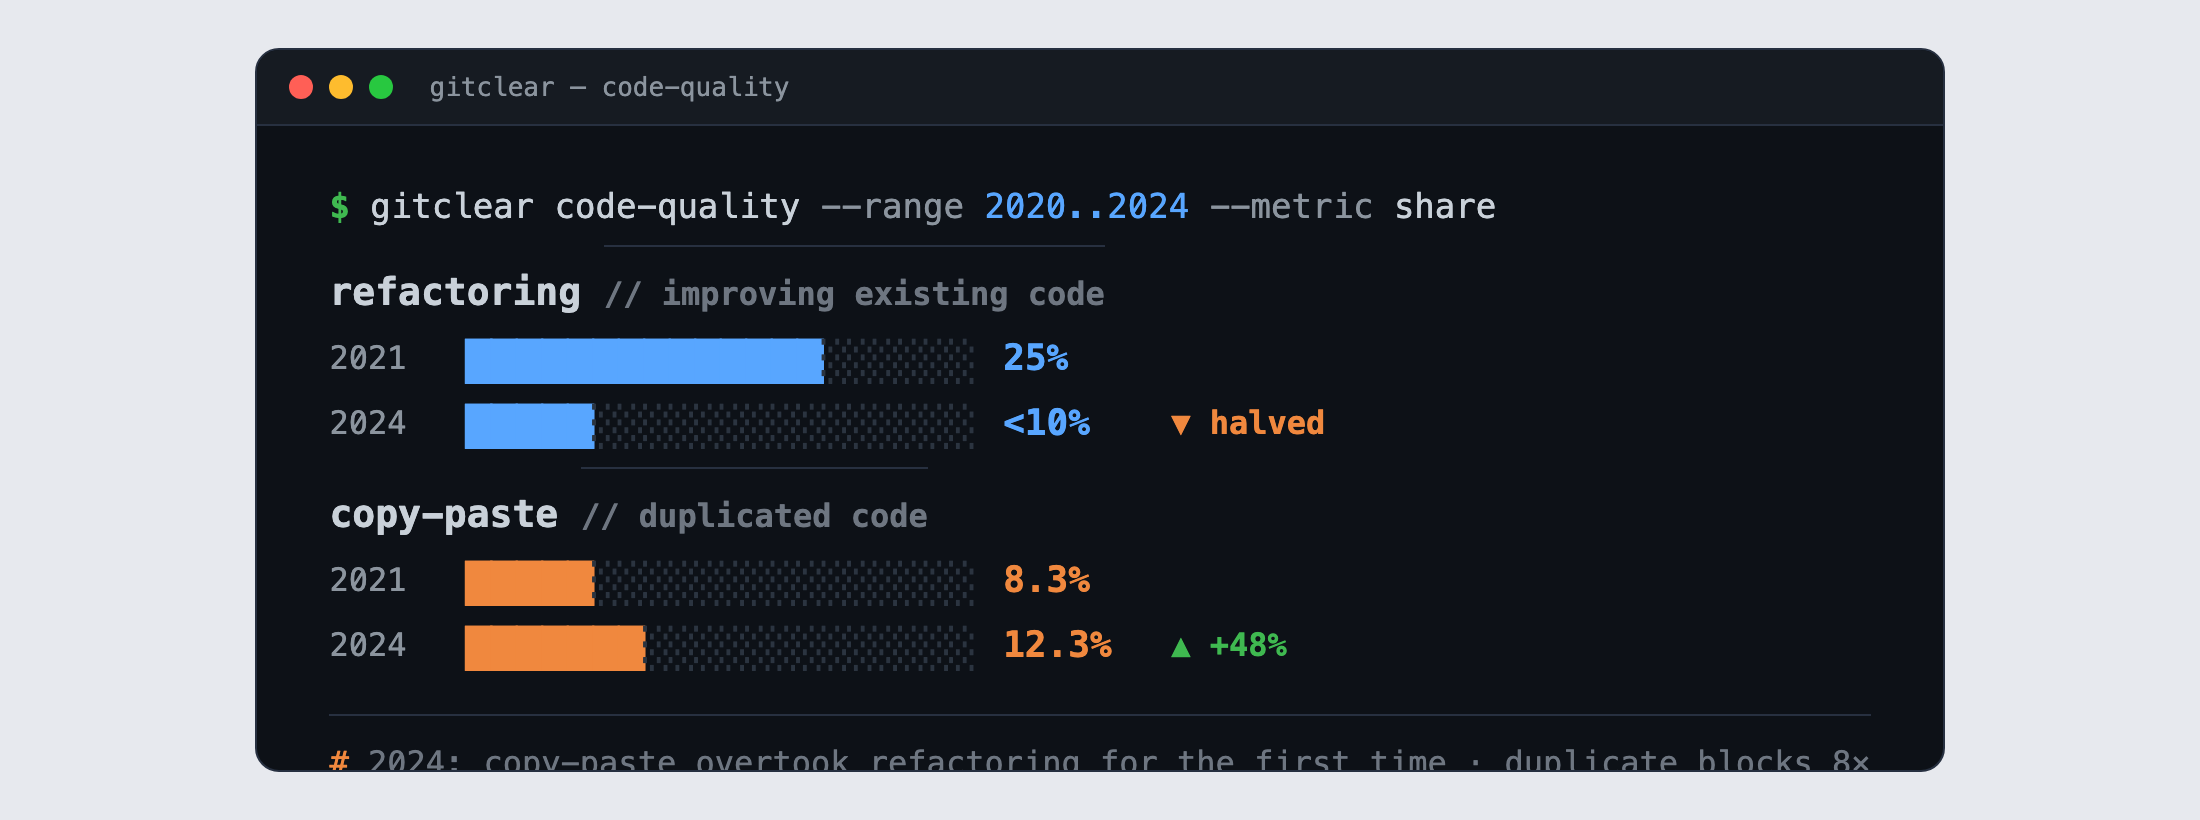
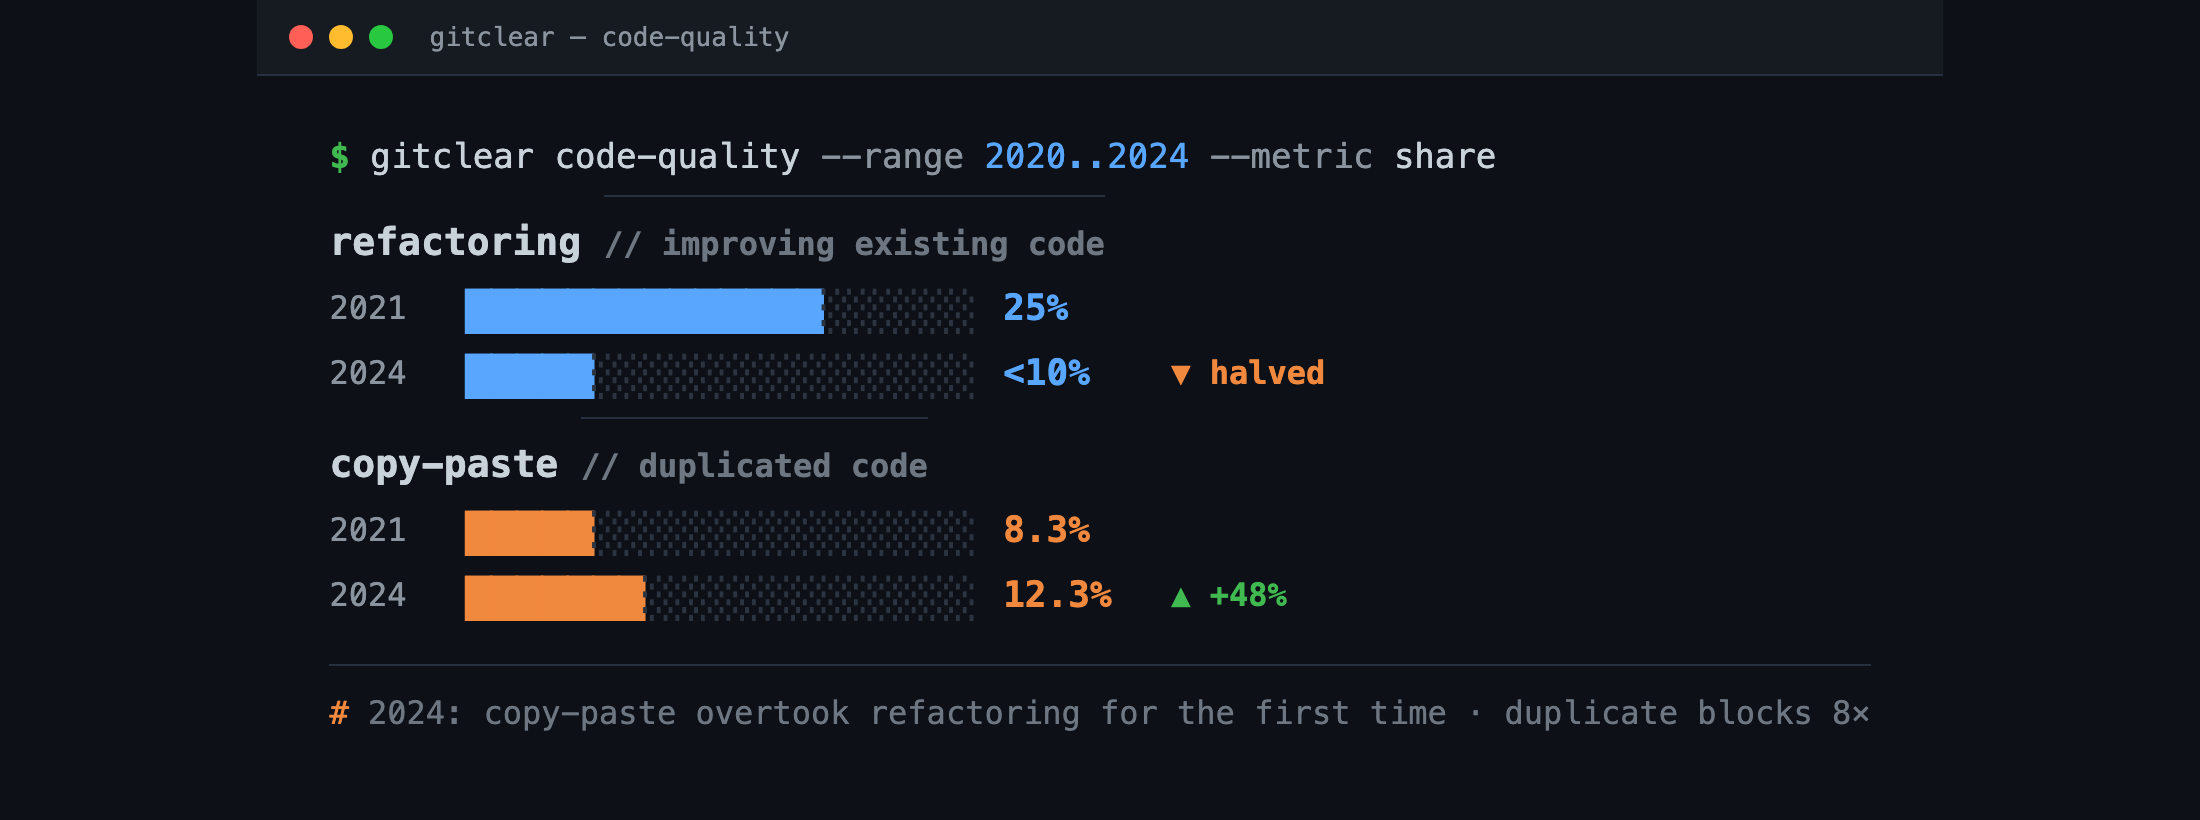
style: Apply AEO sentence structure + edge-to-edge charts + house-style docs
- Charts fill the PNG edge-to-edge (drop the outer gray frame)
- Answer-first TL;DR callout + ⚠/💡 section callouts (new callout block
  type in BilingualArticle), styled as imweb-like accent boxes
- Document the blog house style in docs/blog-style.md (writing rules from
  KaiCore AEO _prompt_style.py/body_writer.py + imweb reference) and point
  AGENTS.md/CLAUDE.md at it; keep chart sources in scripts/blog-figures/

diff --git a/scripts/blog-figures/t-tools.html b/scripts/blog-figures/t-tools.html
@@ -1,0 +1,34 @@
+<!doctype html><html lang="en"><head><meta charset="utf-8">
+<link rel="stylesheet" href="term.css">
+<style>
+  .page{width:1100px;height:365px;background:#0d1117;display:flex;align-items:center;justify-content:center;padding:0}
+  .body{padding:30px 36px}
+  .cmd{font-size:17px;margin-bottom:20px}
+  .head{display:flex;gap:0;font-size:15px;color:var(--dim);margin:0 0 12px}
+  .head .n{width:210px}
+  .head .c1{width:290px}
+  .row{display:flex;align-items:center;font-size:21px;margin:11px 0}
+  .row .n{width:210px;color:var(--tx);font-weight:700;font-size:19px}
+  .row .cell{width:290px;display:flex;align-items:center;gap:12px}
+  .row .barch{letter-spacing:-1px}
+  .row .num{font-weight:800;font-size:17px;width:50px}
+  .cmt{font-size:16px;margin-top:16px;border-top:1px solid var(--line);padding-top:14px}
+</style></head><body>
+  <div class="page"><div class="win">
+    <div class="bar"><span class="dot dr"></span><span class="dot dy"></span><span class="dot dg"></span><span class="path">jetbrains — dev-ecosystem</span></div>
+    <div class="body">
+      <div class="cmd"><span class="p">$</span> jetbrains dev-survey <span class="a">2026-01</span> <span class="s">--sort</span> awareness</div>
+      <div class="head"><span class="n"></span><span class="c1">awareness&nbsp;&nbsp;<span class="cmt">// heard of it</span></span><span>workplace use&nbsp;&nbsp;<span class="cmt">// actually use</span></span></div>
+      <div class="row"><span class="n">GitHub Copilot</span>
+        <span class="cell b-prpl"><span class="barch"><span class="f">███████████████</span><span class="e">░░░░░</span></span><span class="num" style="color:var(--prpl)">76%</span></span>
+        <span class="cell b-blu"><span class="barch"><span class="f">██████</span><span class="e">░░░░░░░░░░░░░░</span></span><span class="num" style="color:var(--blu)">29%</span></span></div>
+      <div class="row"><span class="n">Cursor</span>
+        <span class="cell b-prpl"><span class="barch"><span class="f">██████████████</span><span class="e">░░░░░░</span></span><span class="num" style="color:var(--prpl)">69%</span></span>
+        <span class="cell b-blu"><span class="barch"><span class="f">████</span><span class="e">░░░░░░░░░░░░░░░░</span></span><span class="num" style="color:var(--blu)">18%</span></span></div>
+      <div class="row"><span class="n">Claude Code</span>
+        <span class="cell b-prpl"><span class="barch"><span class="f">███████████</span><span class="e">░░░░░░░░░</span></span><span class="num" style="color:var(--prpl)">57%</span></span>
+        <span class="cell b-blu"><span class="barch"><span class="f">████</span><span class="e">░░░░░░░░░░░░░░░░</span></span><span class="num" style="color:var(--blu)">18%</span></span></div>
+      <div class="cmt"><span style="color:var(--prpl)">#</span> awareness high, workplace use low → the gap is "shadow AI"</div>
+    </div>
+  </div></div>
+</body></html>

diff --git a/src/data/aiParadox.ts b/src/data/aiParadox.ts
@@ -8,6 +8,7 @@ export type BiBlock =
   | { type: "h2"; ko: string; en: string }
   | { type: "p"; s: S[] }
   | { type: "quote"; ko: string; en: string }
+  | { type: "callout"; ko: string; en: string }
   | { type: "list"; items: S[] }
   | { type: "figure"; src: string; alt: string }
   | { type: "hr" }
@@ -15,6 +16,12 @@ export type BiBlock =
 
 export const blocks: BiBlock[] = [
   { type: "figure", src: "/assets/ai-paradox-hero.png", alt: "AI 코딩의 역설 — 개발자 84%가 AI를 쓰지만 정확도를 믿는 건 29%뿐" },
+
+  {
+    type: "callout",
+    ko: "<strong>결론부터.</strong> 개발자 84%가 AI를 씁니다. 그런데 정확도를 믿는 건 29%뿐입니다. 그러면서도 검증 없이 배포합니다. 코드는 빨리 늘고, 리팩터링은 줄고, 도구는 파편화됩니다. 남는 건 사람의 판단력입니다.",
+    en: "<strong>The short version.</strong> 84% of developers use AI. Only 29% trust its accuracy. They ship it unverified anyway. Code piles up, refactoring shrinks, and the tools fragment. What's left is human judgment.",
+  },
 
   {
     type: "p",
@@ -77,6 +84,12 @@ export const blocks: BiBlock[] = [
     ],
   },
 
+  {
+    type: "callout",
+    ko: "⚠ <strong>주의</strong> — AI 코드는 '거의 맞음'이 가장 위험합니다. 그럴듯해서 검증을 건너뛰기 쉽습니다. 그 순간 취약점이 그대로 배포됩니다.",
+    en: "⚠ <strong>Watch out</strong> — with AI code, \"almost right\" is the dangerous part. It looks fine, so it's easy to skip the check. That's the moment the vulnerability ships.",
+  },
+
   { type: "h2", ko: "2. 생산성의 함정 — 60% 더 만들고, 8배 더 베낀다", en: "2. The productivity trap — 60% more code, 8× more copy-paste" },
   {
     type: "p",
@@ -109,6 +122,12 @@ export const blocks: BiBlock[] = [
       { ko: "지금의 배포 속도를 위해 미래의 유지보수 비용을 미루고 있는 셈입니다.", en: "We're trading tomorrow's maintenance cost for today's shipping speed." },
       { ko: "눈앞의 PR은 빨라지지만, 중복은 이자처럼 쌓입니다.", en: "The PR in front of you gets faster; the duplication compounds like interest." },
     ],
+  },
+
+  {
+    type: "callout",
+    ko: "💡 <strong>팁</strong> — 생산성을 PR 개수로만 보지 마세요. 복붙·리팩터링 비율을 같이 추적해야 기술 부채가 눈에 들어옵니다.",
+    en: "💡 <strong>Tip</strong> — don't measure productivity by PR count alone. Track your copy-paste and refactoring ratios too, and the tech debt becomes visible.",
   },
 
   { type: "h2", ko: "3. 시니어의 역설 — 덜 쓰는데 더 번다", en: "3. The senior paradox — they use it less, but gain more" },

diff --git a/scripts/blog-figures/t-divergence.html b/scripts/blog-figures/t-divergence.html
@@ -1,0 +1,33 @@
+<!doctype html><html lang="en"><head><meta charset="utf-8">
+<link rel="stylesheet" href="term.css">
+<style>
+  .page{width:1100px;height:410px;background:#0d1117;display:flex;align-items:center;justify-content:center;padding:0}
+  .body{padding:30px 36px}
+  .cmd{font-size:17px;margin-bottom:22px}
+  .grp{margin:0 0 22px}
+  .grp .h{color:var(--tx);font-size:19px;font-weight:700;margin-bottom:9px}
+  .ln{display:flex;align-items:center;gap:14px;font-size:22px;margin:7px 0}
+  .ln .yr{color:var(--dim);font-size:16px;width:54px}
+  .ln .barch{letter-spacing:-1px}
+  .ln .num{font-weight:800;width:70px;font-size:18px}
+  .ln .tag{font-size:16px}
+  .cmt{font-size:16px;margin-top:8px;border-top:1px solid var(--line);padding-top:14px}
+</style></head><body>
+  <div class="page"><div class="win">
+    <div class="bar"><span class="dot dr"></span><span class="dot dy"></span><span class="dot dg"></span><span class="path">gitclear — code-quality</span></div>
+    <div class="body">
+      <div class="cmd"><span class="p">$</span> gitclear code-quality <span class="s">--range</span> <span class="a">2020..2024</span> <span class="s">--metric</span> share</div>
+      <div class="grp">
+        <div class="h">refactoring <span class="cmt">// improving existing code</span></div>
+        <div class="ln b-blu"><span class="yr">2021</span><span class="barch"><span class="f">██████████████</span><span class="e">░░░░░░</span></span><span class="num" style="color:var(--blu)">25%</span></div>
+        <div class="ln b-blu"><span class="yr">2024</span><span class="barch"><span class="f">█████</span><span class="e">░░░░░░░░░░░░░░░</span></span><span class="num" style="color:var(--blu)">&lt;10%</span><span class="tag down">▼ halved</span></div>
+      </div>
+      <div class="grp">
+        <div class="h">copy-paste <span class="cmt">// duplicated code</span></div>
+        <div class="ln b-org"><span class="yr">2021</span><span class="barch"><span class="f">█████</span><span class="e">░░░░░░░░░░░░░░░</span></span><span class="num" style="color:var(--org)">8.3%</span></div>
+        <div class="ln b-org"><span class="yr">2024</span><span class="barch"><span class="f">███████</span><span class="e">░░░░░░░░░░░░░</span></span><span class="num" style="color:var(--org)">12.3%</span><span class="tag up">▲ +48%</span></div>
+      </div>
+      <div class="cmt"><span style="color:var(--org)">#</span> 2024: copy-paste overtook refactoring for the first time · duplicate blocks 8×</div>
+    </div>
+  </div></div>
+</body></html>

diff --git a/scripts/blog-figures/t-hero.html b/scripts/blog-figures/t-hero.html
@@ -1,0 +1,27 @@
+<!doctype html><html lang="ko"><head><meta charset="utf-8">
+<link rel="stylesheet" href="term.css">
+<style>
+  .page{width:1200px;height:430px;background:#0d1117;display:flex;align-items:center;justify-content:center;padding:0}
+  .body{padding:34px 40px}
+  .title{margin:6px 0 26px;font-size:38px;font-weight:800;letter-spacing:-.02em;color:#f0f6fc}
+  .title .en{color:var(--blu)}
+  .row{display:flex;align-items:center;gap:16px;font-size:26px;margin:14px 0}
+  .row .lab{width:150px;color:var(--dim);font-size:19px}
+  .row .barch{letter-spacing:-1px;font-size:26px}
+  .row .num{font-size:24px;font-weight:800;width:70px}
+  .row .note{color:var(--cmt);font-size:16px}
+  .cmd{font-size:18px;margin-bottom:6px}
+  .kicker{margin-top:26px;font-size:17px;color:var(--tx)}
+  .kicker .ar{color:var(--grn);font-weight:700}
+</style></head><body>
+  <div class="page"><div class="win">
+    <div class="bar"><span class="dot dr"></span><span class="dot dy"></span><span class="dot dg"></span><span class="path">~/blog/ai-coding-paradox</span></div>
+    <div class="body">
+      <div class="cmd"><span class="p">$</span> dev-survey <span class="a">2025</span> <span class="s">--topic</span> "ai-coding"</div>
+      <div class="title">AI 코딩의 역설 <span class="en">/ The AI Coding Paradox</span></div>
+      <div class="row b-blu"><span class="lab">adoption</span><span class="barch"><span class="f">████████████████</span><span class="e">░░░░</span></span><span class="num" style="color:var(--blu)">84%</span><span class="note"># 거의 다 쓴다</span></div>
+      <div class="row b-org"><span class="lab">trust</span><span class="barch"><span class="f">██████</span><span class="e">░░░░░░░░░░░░░░</span></span><span class="num" style="color:var(--org)">29%</span><span class="note"># 믿진 않는다</span></div>
+      <div class="kicker"><span class="ar">&gt;</span> 모두가 AI로 코드를 짠다. 그런데 그 결과를 믿는 사람은 드물다.</div>
+    </div>
+  </div></div>
+</body></html>

diff --git a/scripts/blog-figures/term.css b/scripts/blog-figures/term.css
@@ -1,0 +1,17 @@
+*{margin:0;padding:0;box-sizing:border-box}
+:root{--bg:#0d1117;--panel:#161b22;--line:#273040;--tx:#c9d1d9;--dim:#8b949e;--cmt:#6e7681;--empty:#2b3440;--grn:#3fb950;--blu:#58a6ff;--org:#f0883e;--prpl:#bc8cff}
+html,body{font-family:ui-monospace,"SF Mono","Menlo","Roboto Mono",monospace;-webkit-print-color-adjust:exact;print-color-adjust:exact}
+.win{background:var(--bg);border:0;border-radius:0;overflow:hidden;height:100%}
+.bar{display:flex;align-items:center;gap:8px;padding:11px 16px;background:var(--panel);border-bottom:1px solid var(--line)}
+.dot{width:12px;height:12px;border-radius:50%}
+.dr{background:#ff5f56}.dy{background:#febc2e}.dg{background:#28c840}
+.path{margin-left:10px;color:var(--dim);font-size:13px}
+.body{padding:24px 26px;color:var(--tx)}
+.cmd{font-size:15px}
+.cmd .p{color:var(--grn);font-weight:700}
+.cmd .a{color:var(--blu)}
+.cmd .s{color:var(--dim)}
+.cmt{color:var(--cmt)}
+.f{letter-spacing:-.5px}.e{color:var(--empty);letter-spacing:-.5px}
+.b-grn .f{color:var(--grn)}.b-blu .f{color:var(--blu)}.b-org .f{color:var(--org)}.b-prpl .f{color:var(--prpl)}.b-red .f{color:#ff6b6b}
+.up{color:var(--grn);font-weight:700}.down{color:var(--org);font-weight:700}

diff --git a/docs/blog-style.md b/docs/blog-style.md
@@ -1,0 +1,50 @@
+# 블로그 하우스 스타일 (글·차트·인터랙션)
+
+이 사이트 블로그 글을 쓰거나 고칠 때 지키는 규칙. 근거는 KaiCore AEO 콘텐츠 빌더에서
+학습한 문장 규칙(`kaicore/aeo/src/pipeline/_prompt_style.py`, `body_writer.py`)과
+imweb 블로그(imweb.me/blog?idx=482) 문장 구조.
+
+## 1. 문장 스타일 (사람이 쓴 톤 — AI 만연체 금지)
+
+- **한 문장 = 한 메시지.** 50~60자 넘으면 마침표로 자른다.
+- 콤마로 절을 잇지 말 것. `~하여, ~된, ~기반의, ~하는 …입니다` 패턴 금지 → 짧은 단정문으로 분리.
+- **능동태·현재형 단정.** 명사화 지양(`대응하여`→`대응해`, `성과를 내는`→`성과를 낸다`).
+- 과잉 수식어 빼기(`가시적인/고품질/압도적인/혁신적인/획기적인` 등).
+- 자기소개형 마무리(`~하는 B2B 솔루션입니다`) 대신 동작·결과로 끝낸다.
+- 팩트(수치·고유명사·인과)는 유지. 정보를 빼는 게 아니라 문장만 쪼갠다.
+- AI틱/클릭베이트/사족 금지(`충격적인`, `시한폭탄`, `다음 장(章)`, `돌아보면 ~라고 느낍니다`).
+
+## 2. 구조
+
+- **Answer-first.** 도입부(또는 상단 콜아웃) 3문장 안에 핵심 결론을 먼저 제시. imweb의 "결론부터 말하면"과 같은 원리.
+- 소제목은 `##`/`###`. 번호 + 훅(`1. 신뢰의 역설 — 안 믿으면서 그대로 배포한다`). 질문형도 좋음(`무엇부터 해야 할까요?`).
+- **한 문단 2~3문장(120자 이내).** 벽 텍스트 금지. 문단 사이 여백 넉넉히.
+- **핵심 강조**: 용어·수치·브랜드명은 `**볼드**`, 문단당 1~2개(남발 금지).
+- **콜아웃**: 주의·팁·요약은 박스로 뺀다. `⚠ **주의** — …`, `💡 **팁** — …`, `결론부터.` (섹션당 최대 1개). 이 사이트에선 `BilingualArticle`의 `callout` 블록 타입.
+- **목록**: 3개 이상 나열은 문단이 아니라 불릿(`-`).
+- 톤: 존댓말 대화체. 독자에게 말 건다. 본인 관점(백엔드·AI 엔지니어)은 과하지 않게 한 줄.
+
+## 3. 팩트체크
+
+- 사용자 이름으로 나가는 글이라 통계·수치는 반드시 WebSearch로 1차 출처 확인 + 실제 URL을 단다.
+- 초안에 틀린 수치가 있으면 정정(예: "자격증명 노출 2배" → GitGuardian 실제값 40% 높음, 6.4% vs 4.6%).
+- 출처 불명 매체는 인용하지 않는다. 글 끝에 **출처 섹션**(항목별 링크).
+
+## 4. 차트 하우스 스타일 — 터미널/모노
+
+- 다크 터미널 창: 신호등 점 3개 + 파일명 타이틀바 + monospace + `$` 프롬프트 + `#` 주석.
+- 바는 유니코드 블록(`█` 채움 / `░` 빈칸), `letter-spacing:-.5~-1px`로 solid하게.
+- 팔레트: bg `#0d1117`, panel `#161b22`, line `#273040`, text `#c9d1d9`, dim `#8b949e`,
+  파랑 `#58a6ff`, 초록(프롬프트/상승) `#3fb950`, 주황(하락/경고) `#f0883e`, 보라 `#bc8cff`.
+- 차트 텍스트는 영어(터미널 관례) → ko/en 글이 같은 이미지 공유.
+- **PNG는 터미널이 끝까지 꽉 차게**(바깥 프레임/여백 금지). 사이트의 `prose-img` 테두리·라운딩이 프레임 역할.
+- 소스: `scripts/blog-figures/` (term.css + t-*.html). 렌더: Chrome headless `--force-device-scale-factor=2` → `public/assets/`.
+- generic "AI 대시보드" 느낌 금지 — 이 터미널 톤으로 통일.
+
+## 5. 이중언어 인터랙션
+
+- 글은 `src/data/<slug>.ts`에 문장 단위 `{ko,en}` 정렬(`type:'p'`의 `s:[]`).
+- `BilingualArticle.astro` 컴포넌트: **문장 클릭 → 반대 언어 팝오버**(드래그 아님), 상단 토글로 주 언어 전환.
+- 글은 `.mdx`로 컴포넌트 임베드. en 글은 같은 blocks 공유 + `lang="en"` + `translationKey`로 `/en/blog/` 연결.
+- 마크다운 CJK 볼드 함정: 한글 조사에 바로 붙는 `**볼드**`는 안 먹음 → `<strong>` HTML 사용.
+- 검증: 컴포넌트 `<script>`는 TS라 로컬 헤드리스 하니스로 볼 땐 타입 주석 다 벗겨야 파싱됨. 실제 빌드는 esbuild가 처리. 헤드리스 스크린샷은 `--virtual-time-budget`이 런타임 append 오버레이를 합성 안 하니 인터랙션 검증은 실렌더로.

diff --git a/scripts/blog-figures/README.md b/scripts/blog-figures/README.md
@@ -1,0 +1,16 @@
+# Blog figures — terminal/mono house style
+
+Terminal-window charts for blog posts (see `docs/blog-style.md` §4).
+Shared `term.css` + one `t-*.html` per figure. Rendered to `public/assets/*.png`.
+
+```sh
+CHROME="/Applications/Google Chrome.app/Contents/MacOS/Google Chrome"
+"$CHROME" --headless=new --disable-gpu --force-device-scale-factor=2 --hide-scrollbars \
+  --window-size=1200,430 --screenshot=../../public/assets/ai-paradox-hero.png "file://$PWD/t-hero.html"
+"$CHROME" --headless=new --disable-gpu --force-device-scale-factor=2 --hide-scrollbars \
+  --window-size=1100,410 --screenshot=../../public/assets/ai-paradox-divergence.png "file://$PWD/t-divergence.html"
+"$CHROME" --headless=new --disable-gpu --force-device-scale-factor=2 --hide-scrollbars \
+  --window-size=1100,365 --screenshot=../../public/assets/ai-paradox-tools.png "file://$PWD/t-tools.html"
+```
+
+Terminal fills the PNG edge-to-edge (no outer frame). Chart text is English so ko/en posts share images.

diff --git a/AGENTS.md b/AGENTS.md
@@ -1,3 +1,14 @@
+## Blog house style (IMPORTANT — read before writing/editing posts)
+
+See **`docs/blog-style.md`** for the writing rules (sentence style, Answer-first, callouts),
+the terminal/mono chart style, and the bilingual sentence-click interaction. It encodes the
+sentence-structure learnings from KaiCore AEO (`_prompt_style.py`, `body_writer.py`) + the imweb
+blog reference. Follow it so posts stay consistent across sessions.
+
+Key files: post content = `src/data/<slug>.ts` (sentence-aligned ko/en) rendered via
+`src/components/BilingualArticle.astro`; post is a `.mdx` embedding that component. Chart sources
+in `scripts/blog-figures/` → PNGs in `public/assets/`.
+
 ## Development
 
 When starting the dev server, use background mode:
